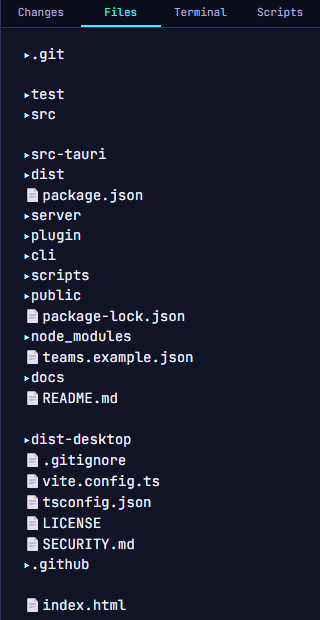
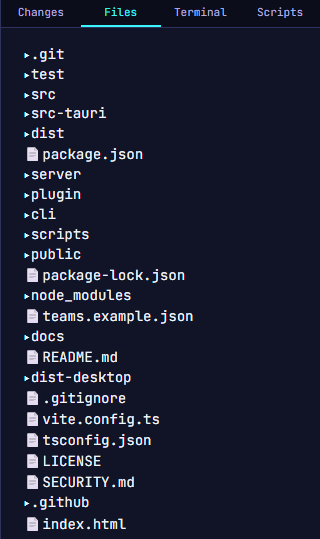
Gate 16.1: /vibesquad v0.2.8 shot refresh + polish

Changed region(s): [[0.0, 0.0, 1.0, 1.0]]

diff --git a/personal-site/templates/vibesquad.html b/personal-site/templates/vibesquad.html
@@ -159,7 +159,7 @@
     /* Portrait shots: cap the figure and centre it in the column */
     .pitch-a .shot-portrait { max-width: 390px; margin-inline: auto; }
     .pitch-a .shot-grid { display: grid; grid-template-columns: 1fr; gap: 1rem; }
-    @media (min-width: 900px) { .pitch-a .shot-grid { grid-template-columns: 1fr 1fr; } }
+    @media (min-width: 900px) { .pitch-a .shot-grid { grid-template-columns: 1fr 1fr; } .pitch-a .shot-grid--narrow-first { grid-template-columns: 1fr 2fr; align-items: start; } }
     .pitch-a .shot-body { padding: .5rem; }
     .pitch-a .shot-body img { display: block; width: 100%; height: auto; background: var(--be-surface); }
     .pitch-a .shot-phone .shot-body { display: flex; justify-content: center; padding: .75rem; }
@@ -210,16 +210,20 @@
         .pitch-a .chart-label { max-width: none; }
 
         /* Each flow node: figures on the left, copy on the right */
-        .pitch-a .flow-node:has(.node-figs) {
+        .pitch-a .flow-node:has(.node-figs),
+        .pitch-a .flow-node--figs {
             display: grid;
             grid-template-columns: minmax(0, 1fr) minmax(0, 1fr);
             column-gap: 2rem;
             align-items: center;
             text-align: left;
         }
-        .pitch-a .flow-node:has(.node-figs) .node-title { grid-column: 1 / -1; text-align: center; }
-        .pitch-a .flow-node:has(.node-figs) .node-figs { grid-column: 1; }
-        .pitch-a .flow-node:has(.node-figs) .node-copy { grid-column: 2; margin: 0; text-align: left; }
+        .pitch-a .flow-node:has(.node-figs) .node-title,
+        .pitch-a .flow-node--figs .node-title { grid-column: 1 / -1; text-align: center; }
+        .pitch-a .flow-node:has(.node-figs) .node-figs,
+        .pitch-a .flow-node--figs .node-figs { grid-column: 1; }
+        .pitch-a .flow-node:has(.node-figs) .node-copy,
+        .pitch-a .flow-node--figs .node-copy { grid-column: 2; margin: 0; text-align: left; }
         .pitch-a .branch, .pitch-a .workers { width: min(100%, 520px); }
 
         /* Journey: text beside screenshots, alternating sides */
@@ -229,13 +233,13 @@
             column-gap: 2rem;
             align-items: center;
         }
-        .pitch-a .beat:has(.shot-grid) { grid-template-columns: minmax(200px, 1fr) 3fr; }
+        .pitch-a .beat:has(.shot-grid), .pitch-a .beat--grid { grid-template-columns: minmax(200px, 1fr) 3fr; }
         .pitch-a .beat > .beat-text { grid-column: 1; align-self: center; }
         .pitch-a .beat > .shot, .pitch-a .beat > .shot-grid { grid-column: 2; grid-row: 1; }
         .pitch-a .beat:nth-child(even) > .beat-text { grid-column: 2; }
         .pitch-a .beat:nth-child(even) > .shot,
         .pitch-a .beat:nth-child(even) > .shot-grid { grid-column: 1; }
-        .pitch-a .beat:nth-child(even):has(.shot-grid) { grid-template-columns: 3fr minmax(200px, 1fr); }
+        .pitch-a .beat:nth-child(even):has(.shot-grid), .pitch-a .beat--grid:nth-child(even) { grid-template-columns: 3fr minmax(200px, 1fr); }
         .pitch-a .beat-quote { font-size: clamp(1.5rem, 2.2vw, 2rem); }
         .pitch-a .beat-line { font-size: 1.15rem; }
         .pitch-a .beat > .shot:not(.shot-portrait) { max-width: 460px; justify-self: center; width: 100%; }
@@ -276,7 +280,7 @@
             <h2 id="pitch-how" class="pitch-h2">How it works</h2>
             <ol class="pitch-flow">
                 <li class="flow-step">
-                    <div class="flow-node" data-reveal>
+                    <div class="flow-node flow-node--figs" data-reveal>
                         <h3 class="node-title"><span class="node-num">1</span>You + Brainstorm</h3>
                         <div class="node-figs">
                             <div class="pair">
@@ -296,7 +300,7 @@
                 </li>
 
                 <li class="flow-step">
-                    <div class="flow-node" data-reveal>
+                    <div class="flow-node flow-node--figs" data-reveal>
                         <h3 class="node-title"><span class="node-num">2</span>Lead + Workers</h3>
                         <div class="node-figs">
                             <div class="lead">
@@ -405,7 +409,7 @@
                     </figure>
                 </li>
 
-                <li class="beat" data-reveal>
+                <li class="beat beat--grid" data-reveal>
                     <div class="beat-text">
                         <h3 class="beat-quote">"Then it needed to feel like chat":</h3>
                         <p class="beat-line">tabs, split view, focus mode, pasted images.</p>
@@ -428,7 +432,7 @@
                     </div>
                 </li>
 
-                <li class="beat" data-reveal>
+                <li class="beat beat--grid" data-reveal>
                     <div class="beat-text">
                         <h3 class="beat-quote">"Then the talking got its own flow":</h3>
                         <p class="beat-line">the brainstorm buddy, an idea inbox, restarting a long chat from a short summary.</p>
@@ -473,22 +477,22 @@
                     <figure class="shot">
                         <div class="window">
                             <div class="window-bar"><span>vibesquad &middot; setup</span><span class="controls" aria-hidden="true"></span></div>
-                            <div class="window-body shot-body"><a href='/static/previews/pitch/j7-first-run.png' target="_blank" rel="noopener noreferrer" aria-label="Open full-size screenshot"><img src='/static/previews/pitch/j7-first-run.png' width="520" height="383" loading="lazy" alt="The first-run setup checklist confirming Paseo, Claude Code, Gemini and Git are installed"></a></div>
+                            <div class="window-body shot-body"><a href='/static/previews/pitch/j7-first-run.png' target="_blank" rel="noopener noreferrer" aria-label="Open full-size screenshot"><img src='/static/previews/pitch/j7-first-run.png' width="520" height="326" loading="lazy" alt="The first-run setup checklist confirming Claude Code, Gemini / Antigravity and Git are installed"></a></div>
                         </div>
                         <figcaption class="shot-cap">First-run checklist</figcaption>
                     </figure>
                 </li>
 
-                <li class="beat" data-reveal>
+                <li class="beat beat--grid" data-reveal>
                     <div class="beat-text">
                         <h3 class="beat-quote">"Then it needed to be a full dev environment":</h3>
                         <p class="beat-line">changes, files, terminal and scripts panels; a command palette (Ctrl+K); search across transcripts; rewind, fork and export a chat.</p>
                     </div>
-                    <div class="shot-grid">
+                    <div class="shot-grid shot-grid--narrow-first">
                         <figure class="shot">
                             <div class="window">
                                 <div class="window-bar"><span>vibesquad &middot; files</span><span class="controls" aria-hidden="true"></span></div>
-                                <div class="window-body shot-body"><a href='/static/previews/pitch/j8a-files-panel.png' target="_blank" rel="noopener noreferrer" aria-label="Open full-size screenshot"><img src='/static/previews/pitch/j8a-files-panel.png' width="320" height="620" loading="lazy" alt="The Files panel in the side dock, listing the VibeSquad repo's folders and files, next to the Changes, Terminal and Scripts tabs"></a></div>
+                                <div class="window-body shot-body"><a href='/static/previews/pitch/j8a-files-panel.png' target="_blank" rel="noopener noreferrer" aria-label="Open full-size screenshot"><img src='/static/previews/pitch/j8a-files-panel.png' width="320" height="539" loading="lazy" alt="The Files panel in the side dock, listing the VibeSquad repo's folders and files, next to the Changes, Terminal and Scripts tabs"></a></div>
                             </div>
                             <figcaption class="shot-cap">Files panel</figcaption>
                         </figure>
@@ -504,15 +508,15 @@
 
                 <li class="beat" data-reveal>
                     <div class="beat-text">
-                        <h3 class="beat-quote">"Then teams got pinned":</h3>
-                        <p class="beat-line">a grid of pinned teams, quick idea capture with a "send it there" fix for a misrouted idea, and a Done shelf with Reopen.</p>
+                        <h3 class="beat-quote">"Then squads got an overview":</h3>
+                        <p class="beat-line">a card per squad with its team avatars and a Needs-you count, a New squad tile, and a usage panel showing each provider's % used, reset time and burn rate.</p>
                     </div>
-                    <figure class="shot shot-wide">
+                    <figure class="shot">
                         <div class="window">
-                            <div class="window-bar"><span>squad &middot; pinned</span><span class="controls" aria-hidden="true"></span></div>
-                            <div class="window-body shot-body"><a href='/static/previews/pitch/j9-pinned-teams.png' target="_blank" rel="noopener noreferrer" aria-label="Open full-size screenshot"><img src='/static/previews/pitch/j9-pinned-teams.png' width="962" height="265" loading="lazy" alt="A squad's pinned teams grid: two team tiles with recent messages and a New idea tile"></a></div>
+                            <div class="window-bar"><span>squads &middot; usage</span><span class="controls" aria-hidden="true"></span></div>
+                            <div class="window-body shot-body"><a href='/static/previews/pitch/j9-pinned-teams.png' target="_blank" rel="noopener noreferrer" aria-label="Open full-size screenshot"><img src='/static/previews/pitch/j9-pinned-teams.png' width="642" height="495" loading="lazy" alt="The Squads view: Escape From Idle and VibeSquad squad cards with team avatars and a 7 Need you badge, a New squad tile, and the Usage panel with Gemini and Claude percent used, reset times and burn rates"></a></div>
                         </div>
-                        <figcaption class="shot-cap">Pinned teams</figcaption>
+                        <figcaption class="shot-cap">Squads and usage</figcaption>
                     </figure>
                 </li>
             </ol>

diff --git a/personal-site/templates/base.html b/personal-site/templates/base.html
@@ -254,7 +254,7 @@
         .callout p:last-child { margin-bottom: 0; }
 
         /* Contact form (built-in shortcode) */
-        .contact-form { max-width: 32rem; }
+        .contact-form { max-width: 32rem; margin-bottom: 1.5rem; }
         .contact-form-field { margin-bottom: 1rem; }
         .contact-form-field label { display: block; font-family: var(--font-pixel); font-size: .875rem; letter-spacing: .06em; margin-bottom: .25rem; }
         .contact-form-field input, .contact-form-field textarea { width: 100%; background: var(--be-surface); color: var(--be-ink); border: 2px solid var(--be-ink); padding: .5rem .75rem; font-family: var(--font-sans); font-size: 1rem; }
